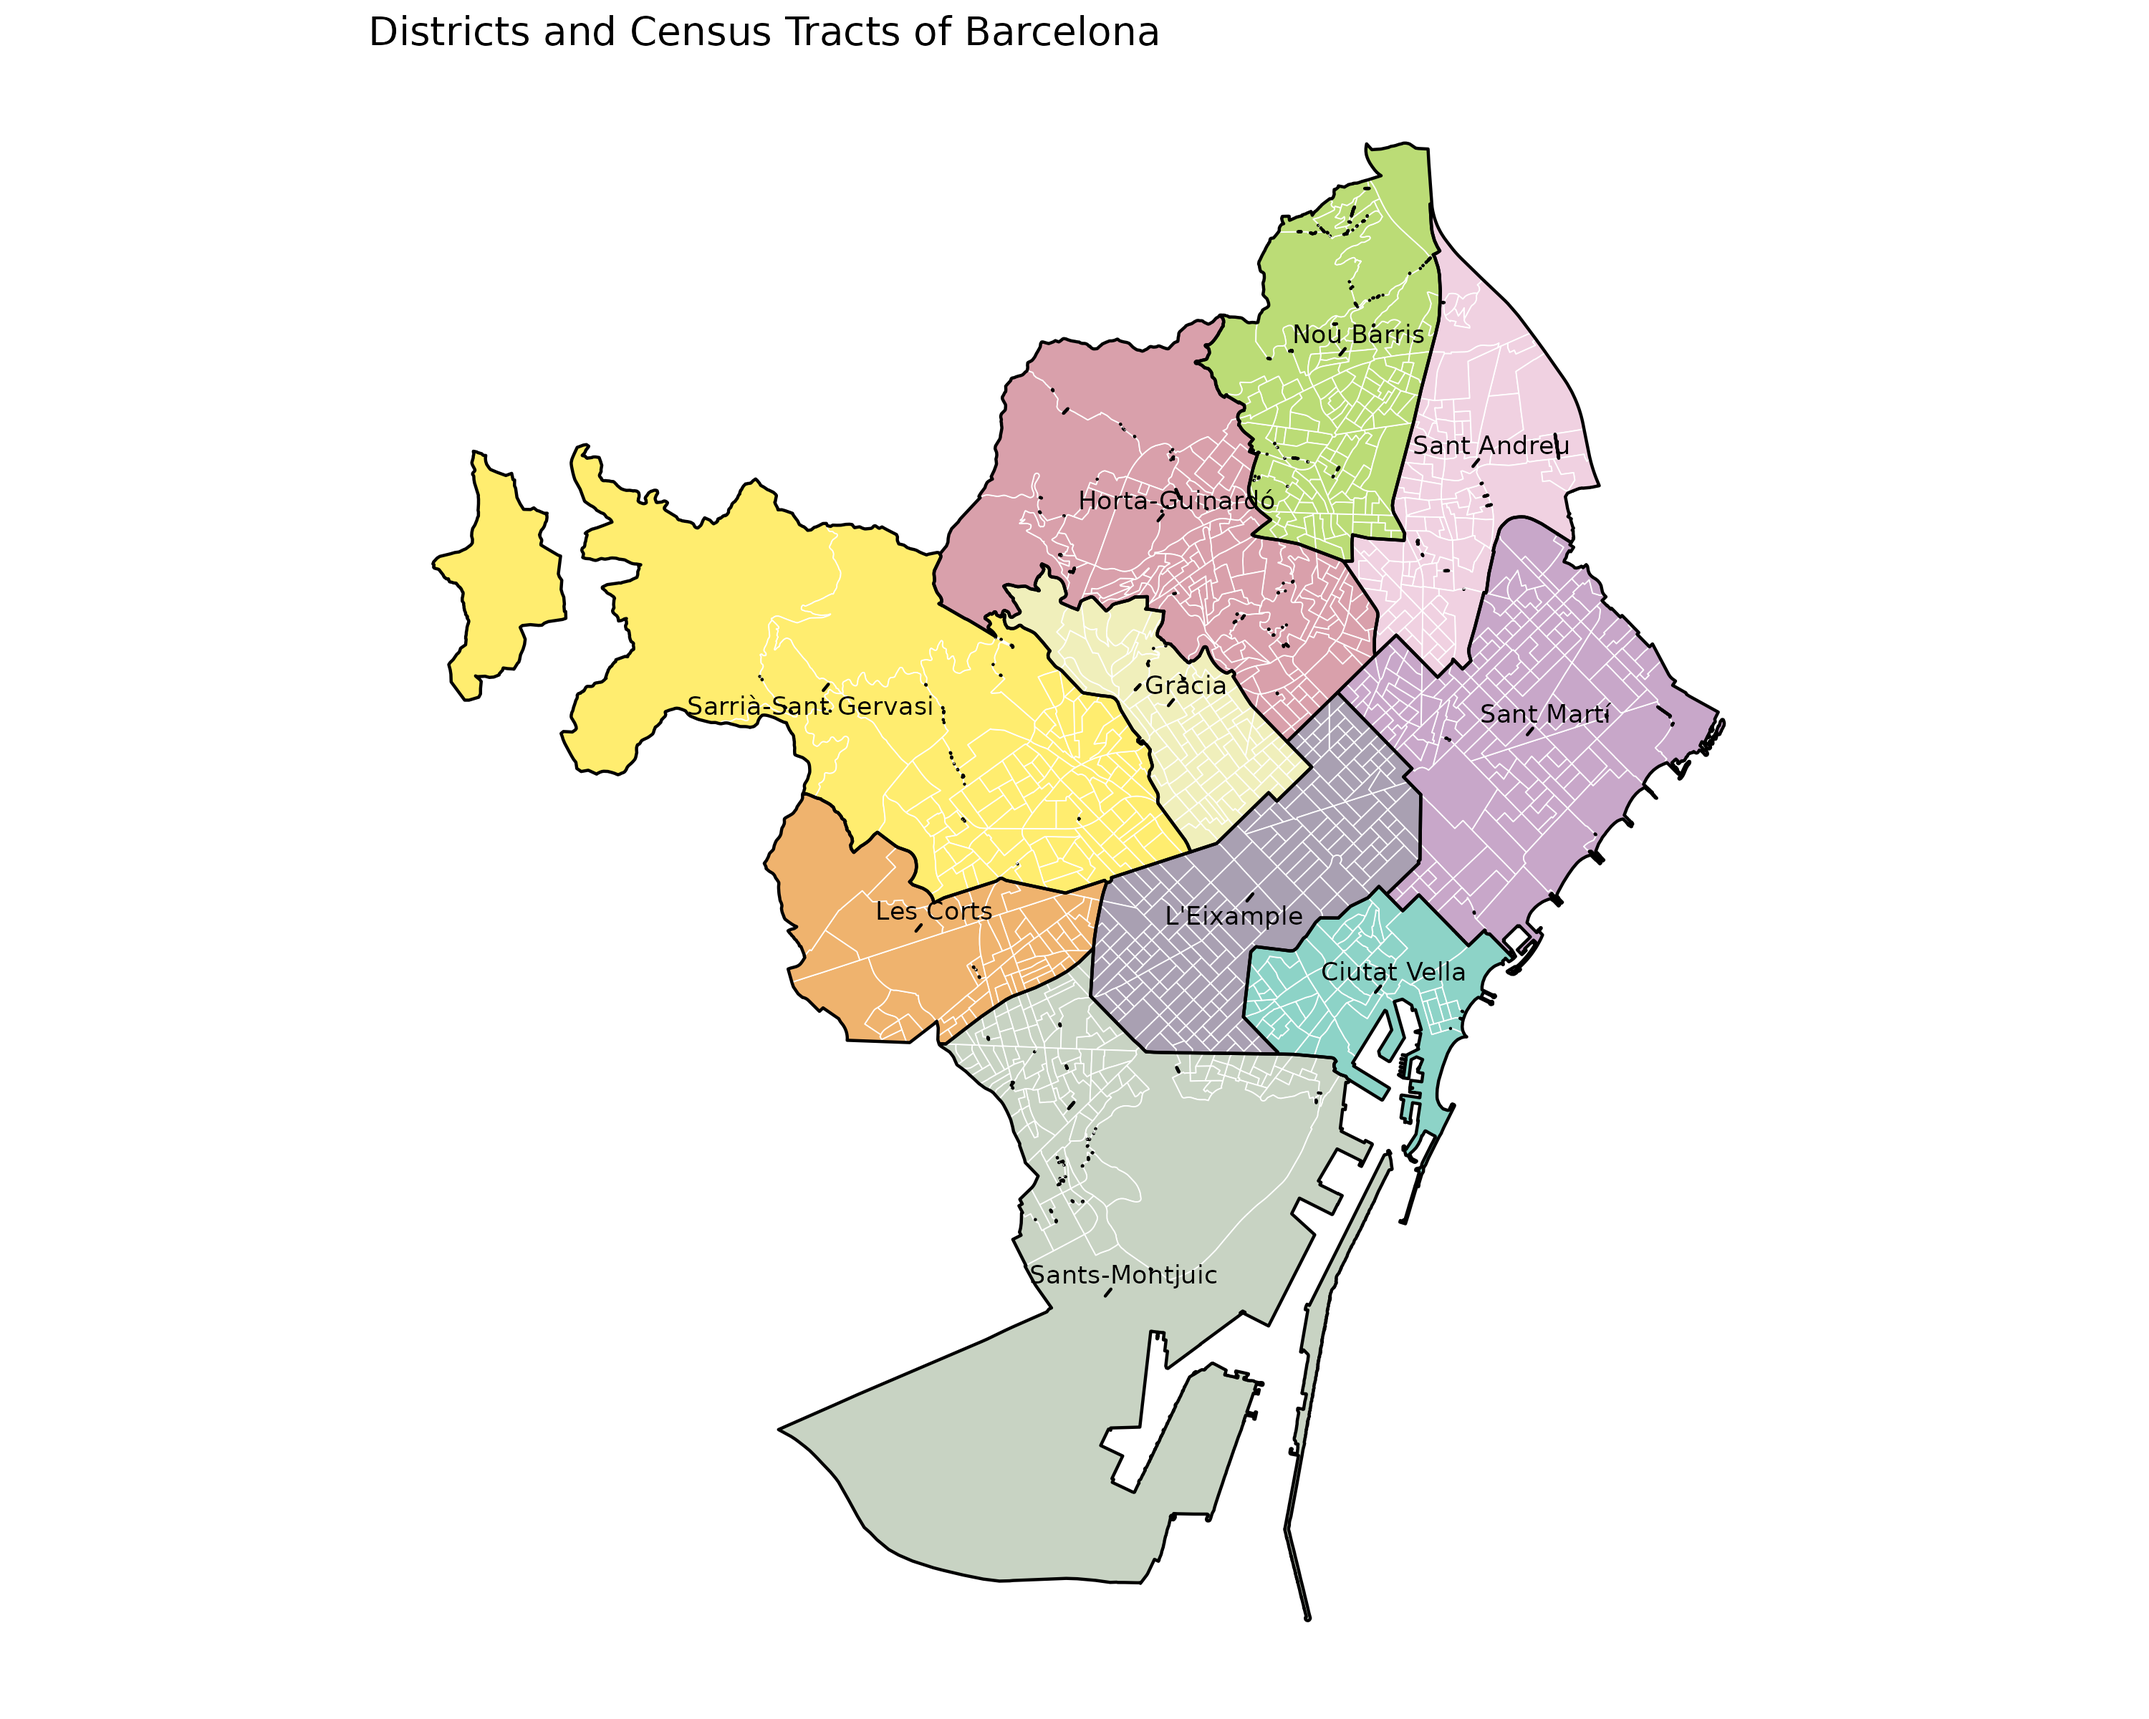
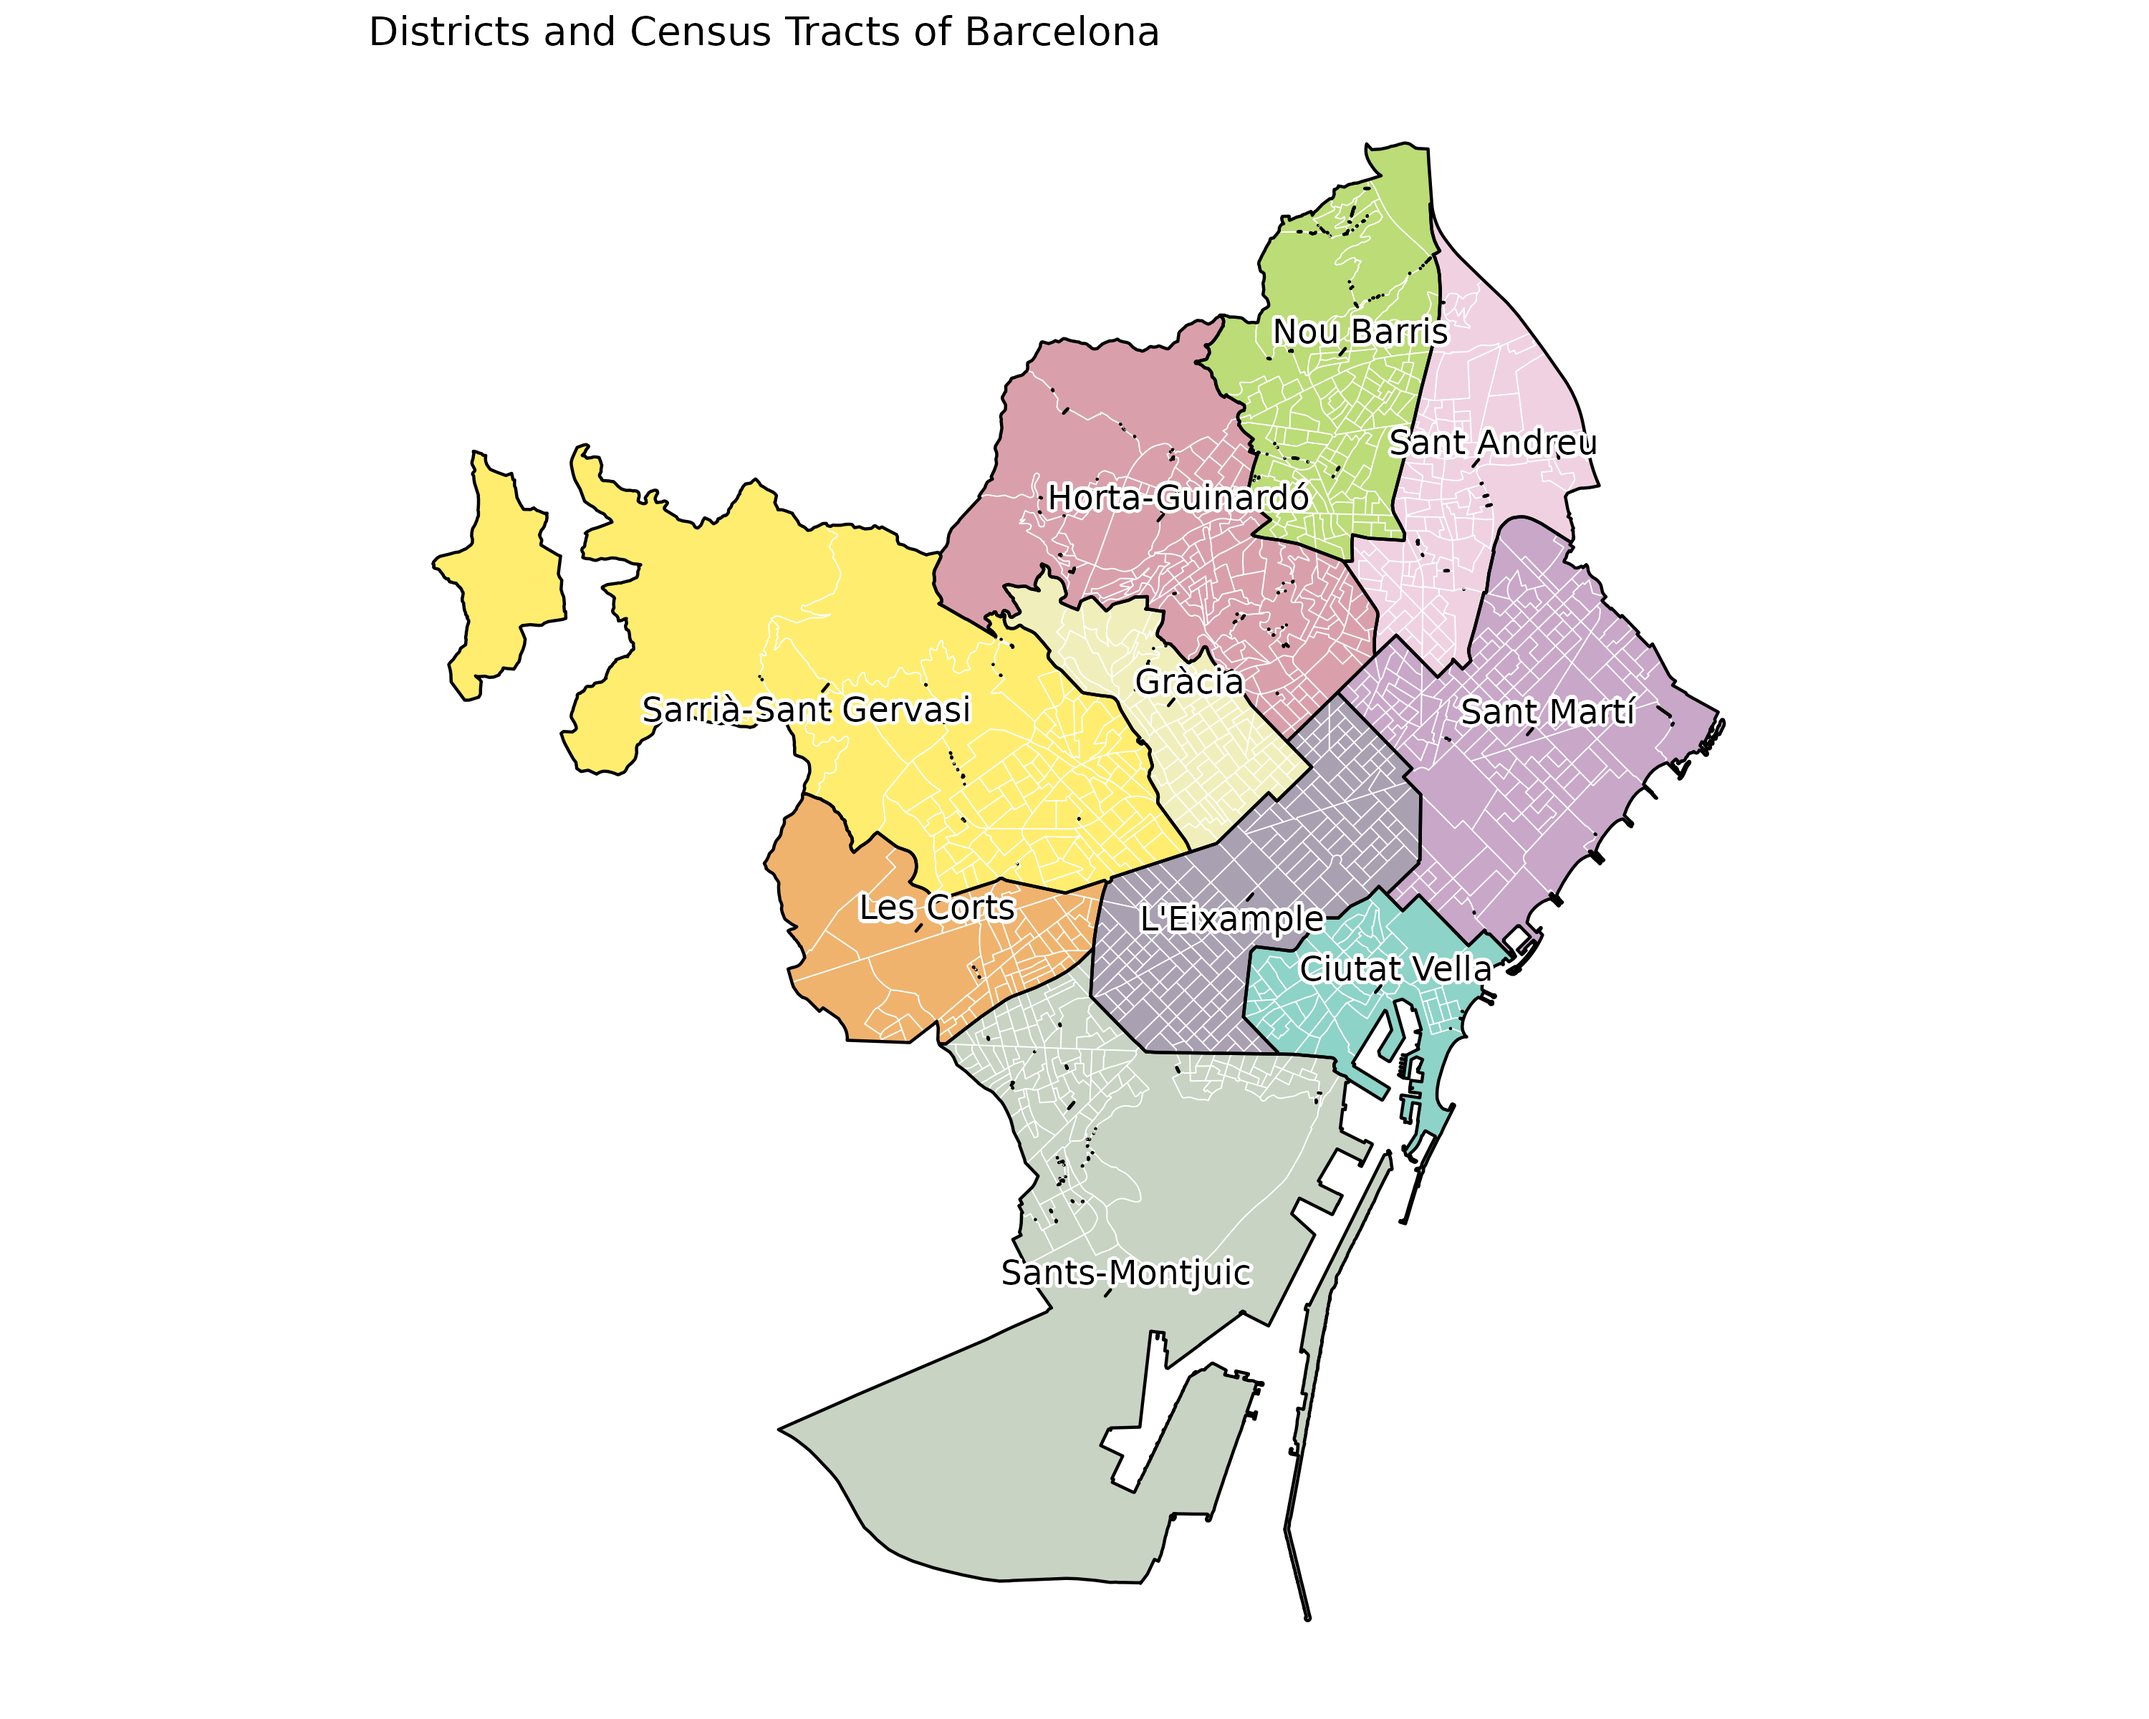
Update text_repel size and style

diff --git a/Homework 6/notebook.html b/Homework 6/notebook.html
@@ -478,8 +478,9 @@ map &lt;- ggplot() +
   geom_sf(data = BCN, aes(fill = NAME), color = &quot;white&quot;, lwd = 0.2) +
   scale_fill_manual(values = color_palette) +
   geom_sf(data = BCN_districts, fill = NA, color = &quot;black&quot;, lwd = 0.5) +
-  geom_text_repel(data = BCN_districts, aes(label = NAME, geometry = centroid),
-                  stat = &quot;sf_coordinates&quot;, size = 3, min.segment.length = 0) +
+ geom_text_repel(data = BCN_districts, aes(label = NAME, geometry = centroid),
+                  stat = &quot;sf_coordinates&quot;, size = 4, min.segment.length = 0, color = &quot;black&quot;,
+                  bg.color = &quot;white&quot;, bg.r = 0.15) +
   theme_minimal() +
   theme(
     legend.position = &quot;none&quot;,
